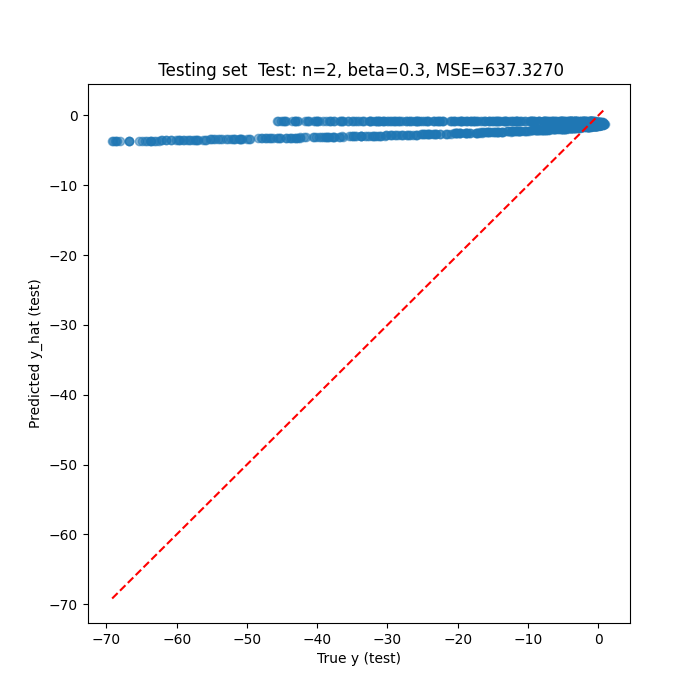
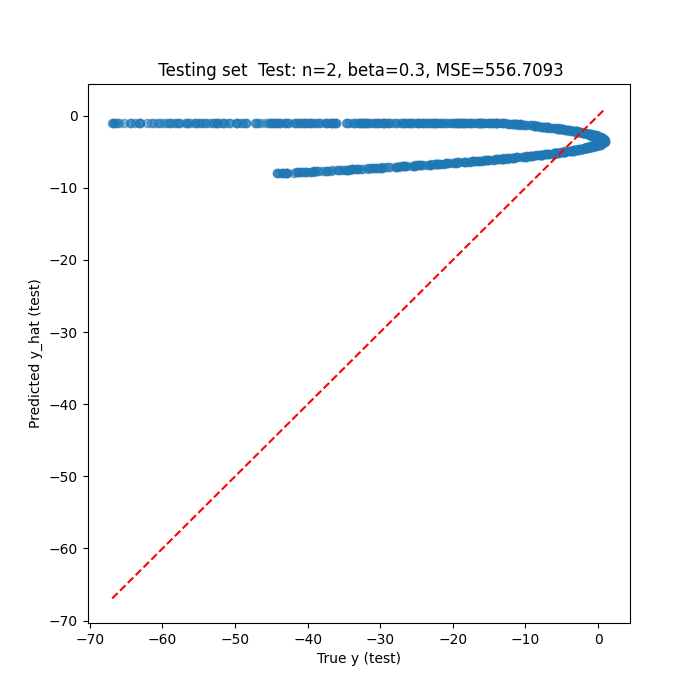
test
nice

diff --git a/加入激活函數.py b/加入激活函數.py
@@ -20,7 +20,7 @@ class Net_with_activation(nn.Module):
 # 步驟1：產生訓練資料
 def dataset(show=True):
     
-    # 產生 x 值，範圍從 -50 到 500，步長為 0.01
+    # 產生 x 值，範圍從 -500 到 500，步長為 1
     x_1 = np.arange(-500, 500, 1)
     x_2 = np.arange(-500, 500, 1)
     x_3 = np.arange(-500, 500, 1)
@@ -42,13 +42,13 @@ def dataset(show=True):
     # 回傳 x 與 y
     return (x_1, x_2, x_3), y   
 
-# 呼叫 dataset 函數並取得 x, y
+
 
 # 依題目參數設定
 def run_case(n_hidden, beta):
     
     # 產生資料
-    (x_1, x_2, x_3), y = dataset(show=False)
+    (x_1, x_2, x_3), y = dataset(show=False) # 呼叫 dataset 函數並取得 x, y
     
     # 正規化
     x_1 = x_1 / max(x_1)
@@ -75,7 +75,6 @@ def run_case(n_hidden, beta):
     X_train_torch = torch.tensor(X_train, dtype=torch.float)
     y_train_torch = torch.tensor(y_train, dtype=torch.float).unsqueeze(1)
     X_test_torch = torch.tensor(X_test, dtype=torch.float)
-    y_test_torch = torch.tensor(y_test, dtype=torch.float).unsqueeze(1)
     
     # 建立有激活函數的神經網路
     model = Net_with_activation(n_hidden)
@@ -100,7 +99,7 @@ def run_case(n_hidden, beta):
     train_mse = np.mean((y_train_hat - y_train)**2)
     test_mse = np.mean((y_test_hat - y_test)**2)
     
-    # 化訓練資料
+    # 畫訓練資料
     plt.figure(figsize=(7,7))
     plt.scatter(y_train, y_train_hat, alpha=0.5)
     plt.plot([min(y_train), max(y_train)], [min(y_train), max(y_train)], 'r--')
